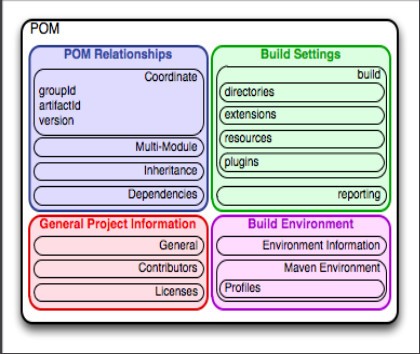
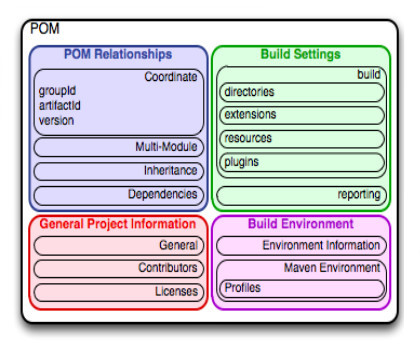
estructurando informacion

Changed region(s): [[0.0, 0.0, 1.0, 1.0]]

diff --git a/src/jbake/content/blog/2022/apache-maven-101-explicando-la-magia-detras-de-un-archivo-pom.xml.md b/src/jbake/content/blog/2022/apache-maven-101-explicando-la-magia-detras-de-un-archivo-pom.xml.md
@@ -1,7 +1,7 @@
 title=Apache Maven 101: Explicando la magia detrás de un archivo pom.xml
 date=2022-11-19
 type=post
-tags=Apache Maven,MVN, Maven,Java
+tags=Apache Maven,Maven,Java
 status=published
 author=Eudris Cabrera
 description=Apache Maven 101: Explicando la magia detrás de un archivo pom.xml
@@ -27,7 +27,7 @@ Apache Maven es
 - Provee una arquitectura basada en plugins
   - cualquiera puede escribir plugins para su interfaz con herramientas  como compiladores, herramientas de pruebas unitarias, etcétera, para cualquier otro lenguaje.
 
-### ¿Por qué usar Maven ?
+### ¿Por qué usar Maven?
 
 - Facilita el proceso de compilado y empaquetado
 - Proporciona un sistema de compilado uniforme
@@ -46,7 +46,7 @@ Apache Maven es
 - Maven incluye un potente mecanismo de gestión de las dependencias de un proyecto sobre librerías propias o de terceros.
 - Maven permite una sencilla gestión simultánea de varios proyectos.
 - Maven dispone de un enorme repositorio de librerías Open Source en constante actualización, de forma que los desarrolladores pueden acceder a las versiones más actualizadas de las mismas.
-- Maven es extensible: dispone de multitud de plugins y de la posibilidad de creación de otros que necesitemos.
+- Maven es extensible: dispone de multitud de `plugins` y de la posibilidad de creación de otros que necesitemos.
 - Extensible con la capacidad para escribir fácilmente plugins de Java o lenguajes de scripting
 - Nos proporciona un acceso inmediato a nuevas funcionalidades requiriendo un esfuerzo muy pequeño de configuración.
 
@@ -61,13 +61,12 @@ Se pueden utilizar otros formatos para describir el modelo de objetos del proyec
 ![](/images/blog/2022/bd682229-1fce-47c9-87cc-c00e38cfa2e4.001.jpg)
 
 ### Modelo de objeto del proyecto
+<figure style="float:right;">
+ <figcaption style="text-align: center;">The Project Object Model</figcaption>
+  <img src="/images/blog/2022/bd682229-1fce-47c9-87cc-c00e38cfa2e4.002.jpg" alt="The Project Object Model" style="width:420px;height:354px;word-wrap: break-word;">     
+</figure>
 
 #### ¿Qué es el archivo POM?
-
-<figure style="float:right">
-  <figcaption>The Project Object Model</figcaption>
-  <img src="/images/blog/2022/bd682229-1fce-47c9-87cc-c00e38cfa2e4.002.jpg" alt="Trulli"  style="width:420px;height:354px;">  
-</figure>
 - Archivo XML que contiene información relevante del proyecto.
 - El POM Maven dice qué tipo de proyecto se está trabajando y cómo modificar el comportamiento por defecto para generar la salida.
 
@@ -90,7 +89,9 @@ Se pueden utilizar otros formatos para describir el modelo de objetos del proyec
     - Una versión específica de un proyecto
 
 ### El Super POM
-![](/images/blog/2022/bd682229-1fce-47c9-87cc-c00e38cfa2e4.003.jpg)
+<figure style="float:right;">
+  <img src="/images/blog/2022/bd682229-1fce-47c9-87cc-c00e38cfa2e4.003.jpg" alt="El Super POM" style="width:420px;height:359px;word-wrap: break-word;">     
+</figure>
 
 - Siempre es el padre de todos los proyectos Maven.
 - Define algunas variables de configuración estándar que son heredadas por todos los proyectos.
@@ -116,9 +117,8 @@ Para `maven-archetype-quickstart`
     - Package
 
 Resultado final
-
-    - Estructura de directorios del proyecto
-    - pom.xml
+    * Estructura de directorios del proyecto
+    * pom.xml
 
 Ejemplo con el arquetipo `maven-archetype-quickstart`
 
@@ -170,15 +170,16 @@ en el proyecto.
 
 #### Configuración específica del usuario y repositorio local
 
-`<home_directory>/.m2/settings.xml`
+#### <home_directory>/.m2/settings.xml
 
 Contiene la configuración específica del usuario para la autenticación, los repositorios, y otra información para personalizar el comportamiento de Maven.
 
-![](images/blog/2022/bd682229-1fce-47c9-87cc-c00e38cfa2e4.005.jpg)
+![](/images/blog/2022/bd682229-1fce-47c9-87cc-c00e38cfa2e4.005.jpg)
 
-`<home_directory>/.m2/repository`
-![](/images/blog/2022/bd682229-1fce-47c9-87cc-c00e38cfa2e4.006.jpg)
-
+#### <home_directory>/.m2/repository
+<figure style="float:right;">
+  <img src="/images/blog/2022/bd682229-1fce-47c9-87cc-c00e38cfa2e4.006.jpg" alt="<home_directory>/.m2/repository" style="width:420px;height:359px;word-wrap: break-word;">     
+</figure>
 - Repositorio local maven
 - Almacena localmente los artefactos generados (archivos jar, war, ear, etc).
 - Almacena copias de dependencias descargadas de repositorios remotos.
@@ -200,20 +201,14 @@ Lo que significa:
 - `site`: se encarga de la creación del sitio de documentación de su proyecto.
 
 #### Fases del ciclo de vida
-
-![](/images/blog/2022/bd682229-1fce-47c9-87cc-c00e38cfa2e4.007.png)
-
 #### Fases predeterminadas
 
-Las partes del ciclo de vida principal del proyecto Maven son:
+Las partes del ciclo de vida principal del proyecto Maven son: **compile*,**test**,**package**,**install** y **deploy**.
 
-* mvn compile
-* mvn test
-* mvn package
-* mvn install
-* mvn deploy
 
-#### Fases predeterminadas
+<figure style="float:right;">
+  <img src="/images/blog/2022/bd682229-1fce-47c9-87cc-c00e38cfa2e4.007.jpg" alt="<home_directory>/.m2/repository" style="width:420px;height:359px;word-wrap: break-word;">     
+</figure>
 
 - mvn compile
    - Genera los ficheros .class
@@ -225,7 +220,7 @@ Las partes del ciclo de vida principal del proyecto Maven son:
    - Genera el fichero .jar
 
 - mvn install
-    - Copia el fichero .jar a un repo local
+    - Copia el fichero .jar a un repositorio local
 
 - mvn deploy
     - Copia el fichero .jar a un servidor remoto
@@ -242,7 +237,6 @@ Las partes del ciclo de vida principal del proyecto Maven son:
 
 ## Estructura del repositorio
 Cada artefacto se mantiene en una estructura de directorio que coincide con las coordenadas de un  proyecto
-
 `<groupId>/<artifactId>/<version>/<artifactId>-<version>.<packaging>`
 
 ![](/images/blog/2022/bd682229-1fce-47c9-87cc-c00e38cfa2e4.008.jpg)
@@ -265,16 +259,16 @@ Cada artefacto se mantiene en una estructura de directorio que coincide con las 
 - Plugin comunes pueden ser usados en diferentes proyectos
 - Un plugin puede ser modificado sin afectar las demás partes de un proyecto.
 - Los cambios/mejoras realizados a los plugins por parte de alguna comunidad es beneficioso para todos.
-- Ejemplos de plugins "listo para usar"
+- Ejemplos de plugins **"listo para usar"**
     - Archetype plugin
     - Jar plugin
     - Compiler plugin
     - Hibernate3 plugin
 
 ### Gestión de Dependencias
-#### Uso de dependencias**
+#### Uso de dependencias
 
-- Las dependencias son especificadas usando las coordenadas
+- Las dependencias son especificadas usando las coordenadas:
 ```xml
 <dependencies>
   <dependency></dependency>
